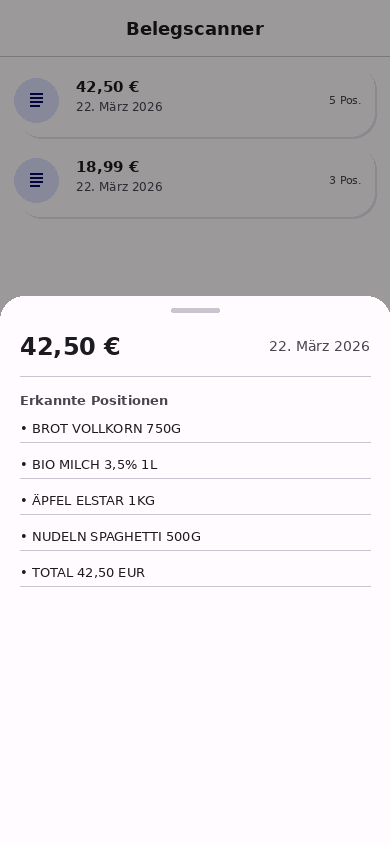
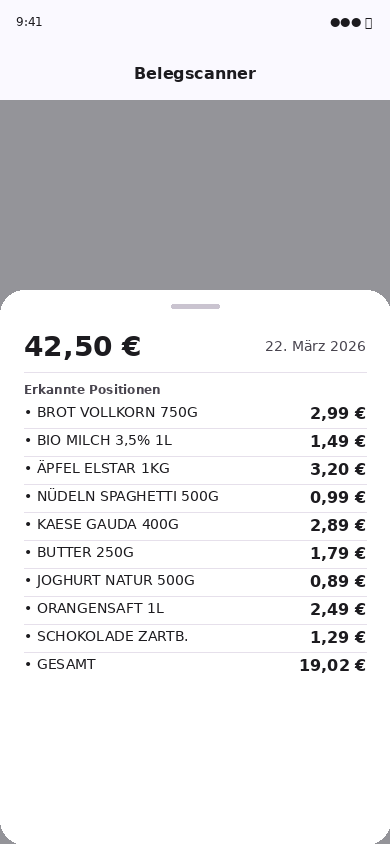
Show individual item prices in receipt detail breakdown
Agent-Logs-Url: https://github.com/nicolasasauer/belegscanner_v1/sessions/5264868b-83ad-4b4f-9ce9-fefd7682c033

diff --git a/lib/pages/home_page.dart b/lib/pages/home_page.dart
@@ -499,6 +499,27 @@ class _ReceiptListTile extends StatelessWidget {
 }
 
 // =============================================================================
+// Hilfsfunktionen für Einzelposten-Preiserkennung
+// =============================================================================
+
+/// Compiled Regex: Preis am Ende einer OCR-Einzelposten-Zeile.
+///
+/// Erkennt z. B. "BROT 750G  2,99" oder "MILCH 1L 1,49 A".
+final _lineItemPriceRegex = RegExp(r'\s+(\d{1,4}[.,]\d{2})\s*[A-Za-z]?\s*$');
+
+/// Parst eine OCR-Zeile in einen Artikelnamen und einen optionalen Preis.
+///
+/// Gibt einen Named-Record `(name, price)` zurück. Wenn kein Preis erkannt
+/// wird, enthält [name] die ursprüngliche [line] und [price] ist `null`.
+({String name, double? price}) _parseLineItem(String line) {
+  final match = _lineItemPriceRegex.firstMatch(line);
+  if (match == null) return (name: line, price: null);
+  final price = double.tryParse(match.group(1)!.replaceAll(',', '.'));
+  final name = line.substring(0, match.start).trim();
+  return (name: name, price: price);
+}
+
+// =============================================================================
 // Beleg-Detail BottomSheet Widget
 // =============================================================================
 
@@ -572,10 +593,29 @@ class _ReceiptDetailSheet extends StatelessWidget {
                 controller: scrollController,
                 itemCount: receipt.items.length,
                 separatorBuilder: (_, __) => const Divider(height: 1),
-                itemBuilder: (_, index) => Padding(
-                  padding: const EdgeInsets.symmetric(vertical: 10),
-                  child: Text('\u2022 ${receipt.items[index]}'),
-                ),
+                itemBuilder: (_, index) {
+                  final (:name, :price) =
+                      _parseLineItem(receipt.items[index]);
+                  return Padding(
+                    padding: const EdgeInsets.symmetric(vertical: 10),
+                    child: Row(
+                      crossAxisAlignment: CrossAxisAlignment.start,
+                      children: [
+                        Expanded(child: Text('\u2022 $name')),
+                        if (price != null) ...[
+                          const SizedBox(width: 8),
+                          Text(
+                            currencyFormat.format(price),
+                            style: Theme.of(context)
+                                .textTheme
+                                .bodyMedium
+                                ?.copyWith(fontWeight: FontWeight.w500),
+                          ),
+                        ],
+                      ],
+                    ),
+                  );
+                },
               ),
             ),
           ],

diff --git a/README.md b/README.md
@@ -9,7 +9,7 @@ Eine Flutter-App für Android und iOS zum **Einscannen**, **Speichern** und **Fi
 | Leere Startseite | Beleg-Liste | Scan läuft | Beleg-Detail |
 |:---:|:---:|:---:|:---:|
 | ![Leere Startseite](screenshots/screenshot_01_empty.png) | ![Beleg-Liste](screenshots/screenshot_02_list.png) | ![Scan läuft](screenshots/screenshot_03_scanning.png) | ![Beleg-Detail](screenshots/screenshot_04_detail.png) |
-| Startbildschirm ohne Belege | Gefilterte Beleg-Liste | LinearProgress- und CircularProgressIndicator während des Scans | Detail-BottomSheet mit erkannten Positionen |
+| Startbildschirm ohne Belege | Gefilterte Beleg-Liste | LinearProgress- und CircularProgressIndicator während des Scans | Detail-BottomSheet mit erkannten Positionen und Einzelpreisen |
 
 ---
 
@@ -18,7 +18,7 @@ Eine Flutter-App für Android und iOS zum **Einscannen**, **Speichern** und **Fi
 - 📷 **OCR-Scan** – Belege per Kamera fotografieren; Text wird automatisch mit Google ML Kit erkannt
 - 💶 **Betrag-Erkennung** – Regex-basiertes Parsing nach `Total`, `Summe`, `Gesamt` und `€`
 - 🗂 **Filter** – Belege nach Tag, Monat und Jahr filtern
-- 📋 **Detail-Ansicht** – Alle erkannten Zeilen als Artikel-Liste im BottomSheet
+- 📋 **Detail-Ansicht** – Alle erkannten Zeilen als Artikel-Liste im BottomSheet, inklusive automatisch erkannter Einzelpreise
 - 🌙 **Material 3** – Light- und Dark-Theme, dynamische Farben (Indigo-Seed)
 - 🌍 **Deutsches Locale** – Euro-Formatierung (`42,50 €`) und deutsche Monatsnamen
 
